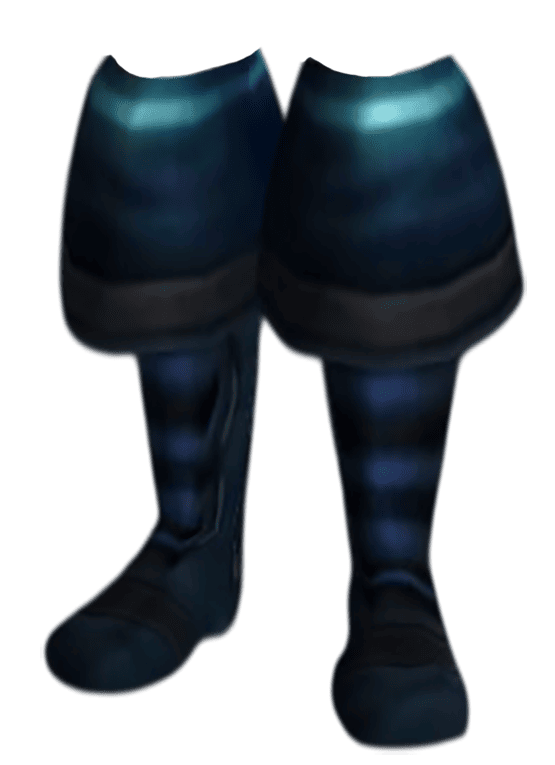
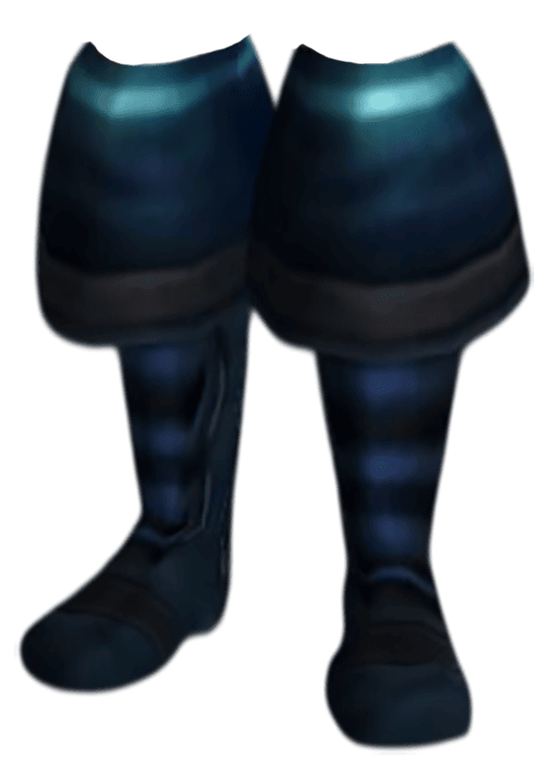
Добавил декоративного оружия/оружия для профессий

diff --git a/src/components/Cards.tsx b/src/components/Cards.tsx
@@ -377,7 +377,7 @@ const Cards = ({home, twoHandedWeapons, twoHandedAxes, twoHandedAxesWeaponDetail
 						{/* Горное дело */}
 						{ mining &&
 							<Tabs defaultActiveKey="professions" id="cards-tabs" fill>
-								<Tab eventKey="professions" title="Маунты">
+								<Tab eventKey="professions" title="Профессии">
 									<h3 className="text-success text-center fw-bold display-4">Всего Шахтерских Инструментов: {counterCardItems(dataMining)}</h3>
 									<div className="card-box d-flex flex-wrap justify-content-center justify-content-xl-start mt-4">
 										{ renderCardItems(dataMining) }